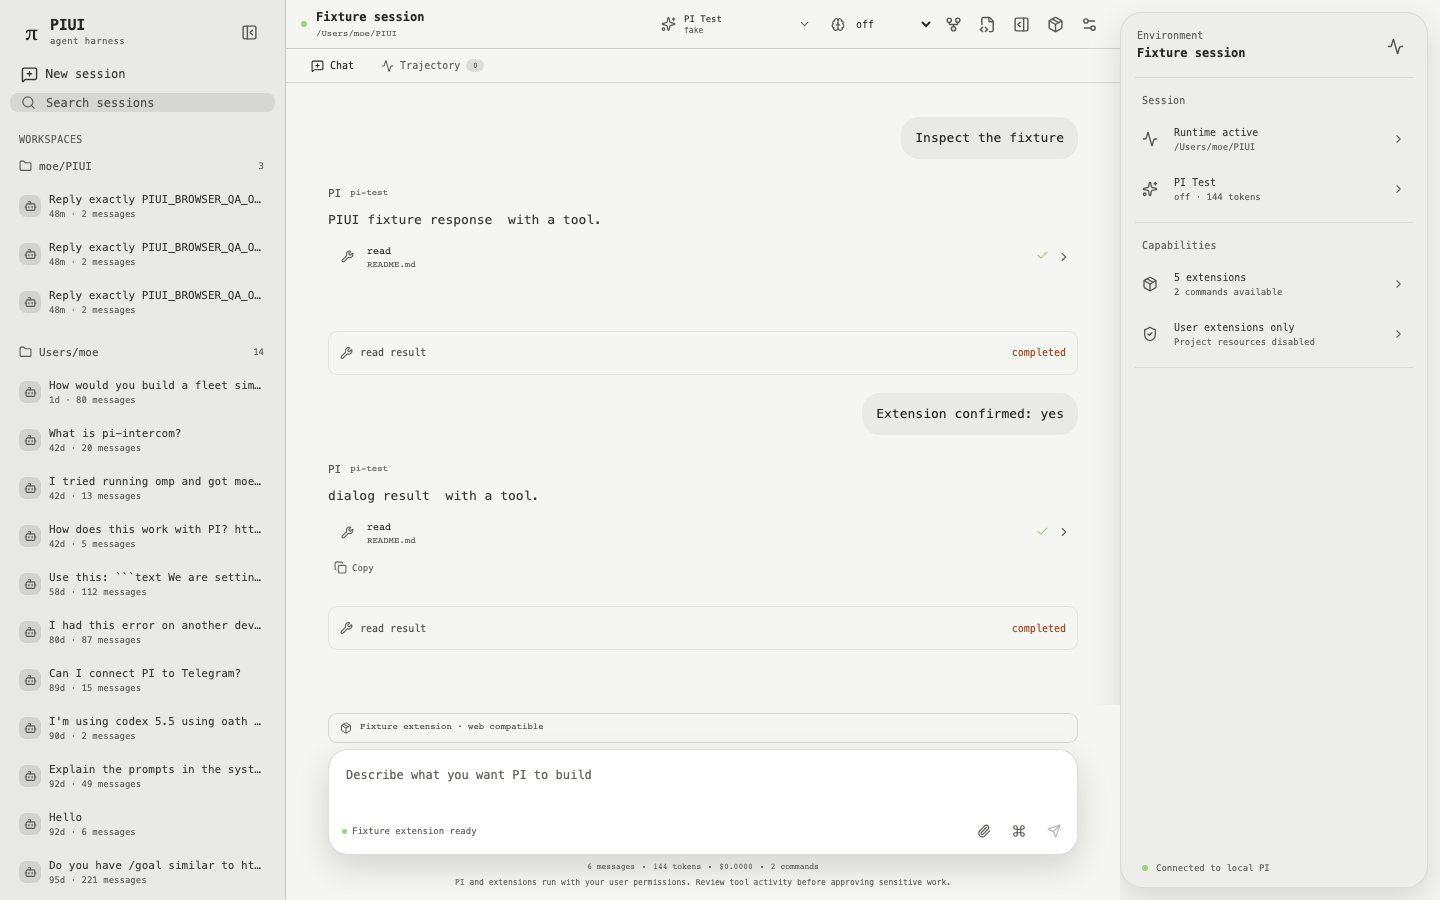
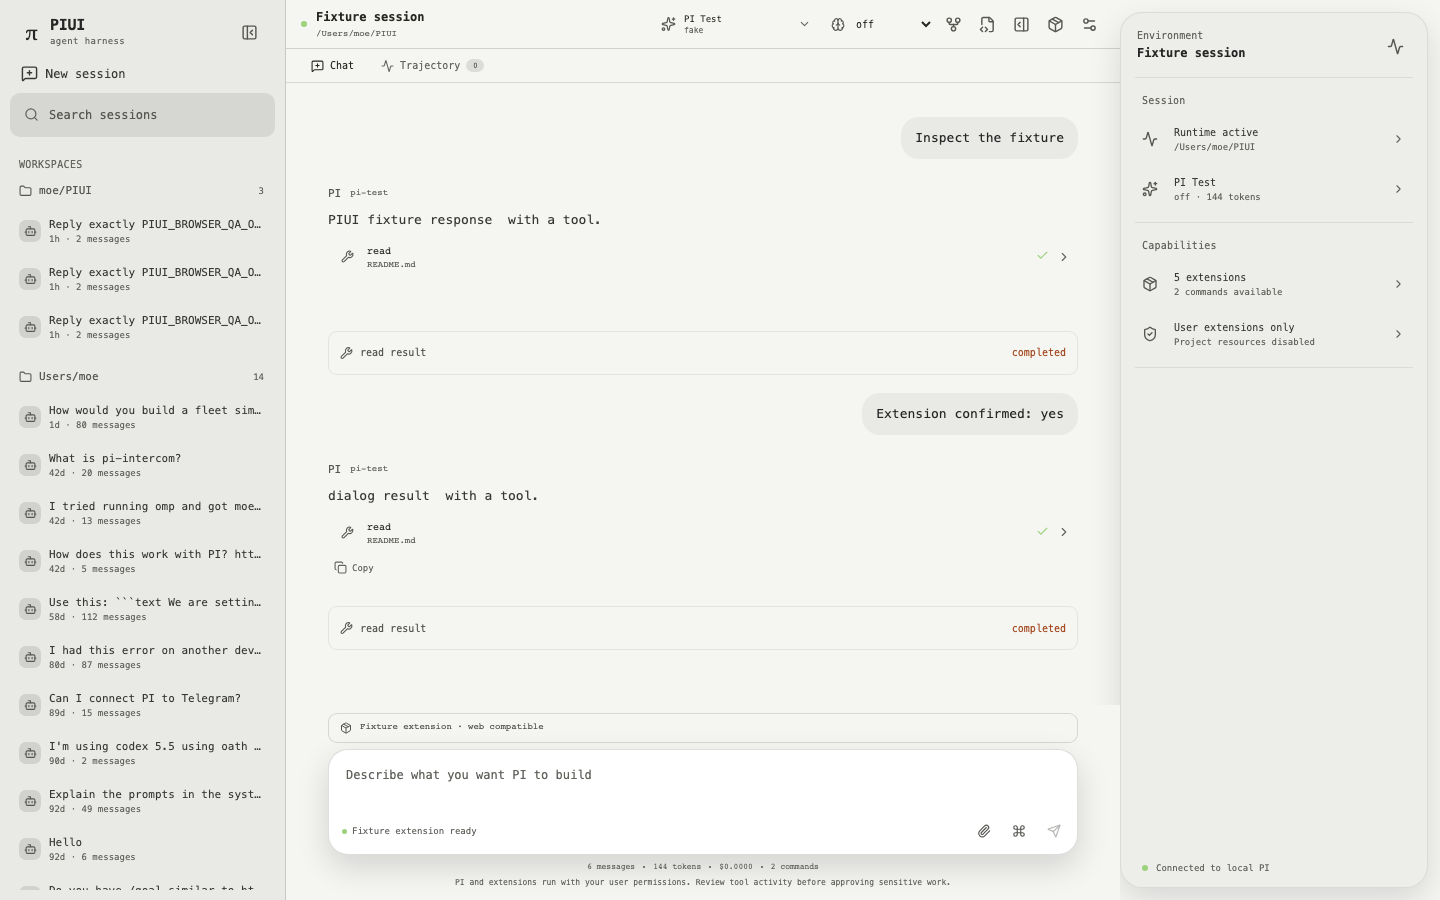
Clarify model availability and enlarge search controls

Changed region(s): [[0.0, 0.0933, 0.1875, 0.9956]]

diff --git a/src/surfaces.tsx b/src/surfaces.tsx
@@ -1,7 +1,7 @@
 import { useEffect, useMemo, useRef, useState, type ReactNode } from "react";
 import {
   Activity, AlertTriangle, Archive, BarChart3, Brain, Check, ChevronRight, CircleDollarSign,
-  Copy, Download, FileCode2, Folder, GitFork, Gauge, MessageSquare, Package, RefreshCw,
+  Copy, Download, FileCode2, Folder, GitFork, Gauge, Info, MessageSquare, Package, RefreshCw,
   Search, Settings2, ShieldAlert, Sparkles, TerminalSquare, Wrench, X,
 } from "lucide-react";
 import type { ExtensionItem, ModelInfo, RpcState, SlashCommand } from "./types";
@@ -24,6 +24,7 @@ export function ModalSurface({ children, className = "", labelledBy, close }: { 
 export function ModelPicker({ models, current, onSelect, close }: { models: ModelInfo[]; current: ModelInfo | undefined; onSelect: (provider: string, id: string) => void; close: () => void }) {
   const [search, setSearch] = useState("");
   const filtered = useMemo(() => models.filter((model) => `${model.name ?? ""} ${model.id} ${model.provider}`.toLowerCase().includes(search.toLowerCase())), [models, search]);
+  const providerCount = useMemo(() => new Set(models.map((model) => model.provider)).size, [models]);
   const groups = useMemo(() => {
     const result = new Map<string,ModelInfo[]>();
     for (const model of filtered) result.set(model.provider,[...(result.get(model.provider) ?? []),model]);
@@ -32,6 +33,7 @@ export function ModelPicker({ models, current, onSelect, close }: { models: Mode
   return <ModalSurface className="picker-dialog" labelledBy="model-picker-title" close={close}>
     <header className="dialog-header"><div><span className="eyebrow"><Sparkles/> PI MODELS</span><h2 id="model-picker-title">Choose a model</h2><p>Models available through your local PI configuration.</p></div><button className="icon-button" onClick={close} aria-label="Close model picker"><X/></button></header>
     <label className="search dialog-search"><Search/><input autoFocus value={search} onChange={(event) => setSearch(event.target.value)} placeholder="Search models or providers" aria-label="Search models"/></label>
+    <div className="model-source-note"><Info/><span><strong>{models.length} selectable models from {providerCount} provider{providerCount === 1 ? "" : "s"}.</strong> PI only returns providers that are configured and authenticated. Add another provider with <code>/login</code> in PI, then restart this runtime.</span></div>
     <div className="model-groups">{[...groups.entries()].map(([provider, items]) => <section key={provider}><div className="provider-heading"><strong>{provider}</strong><span>{items.length} models</span></div>{items.map((model) => {
       const selected = current?.provider === model.provider && current?.id === model.id;
       return <button className={`model-row ${selected ? "selected" : ""}`} key={`${model.provider}/${model.id}`} onClick={() => { onSelect(model.provider, model.id); close(); }} aria-pressed={selected}>
@@ -92,7 +94,7 @@ export function SettingsDialog({ initialTab, state, ready, runtime, models, thin
         <SettingRow title="Enter behavior while busy" description="Choose where Enter queues a message while PI is working."><div className="segmented"><button aria-pressed={busyMode === "steer"} onClick={() => onBusyMode("steer")}>Steer</button><button aria-pressed={busyMode === "followUp"} onClick={() => onBusyMode("followUp")}>Follow up</button></div></SettingRow>
         <div className="compatibility-note"><AlertTriangle/><div><strong>PI permissions</strong><span>Unlike DeepSeek Harness permission presets, PI has no built-in sandbox. PIUI shows the actual trust state rather than offering controls it cannot enforce.</span></div></div>
       </>}
-      {tab === "models" && <><h2>Models</h2><p className="settings-lead">Available from your existing PI providers and authentication.</p><div className="current-model-card"><span className="model-icon"><Sparkles/></span><div><small>Current model</small><strong>{state?.model ? `${state.model.name ?? state.model.id}` : ready ? "No model selected" : "Starting PI…"}</strong><span>{state?.model ? `${state.model.provider}/${state.model.id}` : ""}</span></div><button className="secondary" disabled={!ready} onClick={showModelPicker}>Choose model</button></div><h3>Reasoning effort</h3><div className="effort-grid">{thinkingLevels.map((level) => <button key={level} disabled={!ready} aria-pressed={state?.thinkingLevel === level} onClick={() => onThinking(level)}><Brain/>{level}</button>)}</div><div className="inventory-summary"><span><strong>{models.length}</strong> models</span><span><strong>{new Set(models.map((model)=>model.provider)).size}</strong> providers</span></div></>}
+      {tab === "models" && <><h2>Models</h2><p className="settings-lead">PIUI shows the selectable models returned by your local PI runtime. Providers without configured authentication stay hidden.</p><div className="current-model-card"><span className="model-icon"><Sparkles/></span><div><small>Current model</small><strong>{state?.model ? `${state.model.name ?? state.model.id}` : ready ? "No model selected" : "Starting PI…"}</strong><span>{state?.model ? `${state.model.provider}/${state.model.id}` : ""}</span></div><button className="secondary" disabled={!ready} onClick={showModelPicker}>Choose model</button></div><h3>Reasoning effort</h3><div className="effort-grid">{thinkingLevels.map((level) => <button key={level} disabled={!ready} aria-pressed={state?.thinkingLevel === level} onClick={() => onThinking(level)}><Brain/>{level}</button>)}</div><div className="inventory-summary"><span><strong>{models.length}</strong> models</span><span><strong>{new Set(models.map((model)=>model.provider)).size}</strong> authenticated providers</span></div></>}
       {tab === "extensions" && <><h2>Extensions</h2><p className="settings-lead">PI extensions are the equivalent of DeepSeek Harness plugins.</p><div className="compatibility-note"><AlertTriangle/><div><strong>Web compatibility</strong><span>Tools, events, commands, standard dialogs, status, and text widgets work. Terminal-only custom components and renderers do not cross PI RPC.</span></div></div><label className="search dialog-search"><Search/><input value={extensionSearch} onChange={(event) => setExtensionSearch(event.target.value)} placeholder="Search configured extension sources" aria-label="Search extensions"/></label><div className="inventory-summary"><span><strong>{extensions.length}</strong> configured sources</span><span><strong>{commands.filter((item)=>item.source === "extension").length}</strong> commands</span></div><div className="settings-extension-list">{filteredExtensions.map((extension,index) => <div className="extension-row" key={`${extension.path}-${index}`}><span className="extension-logo"><Package/></span><div><strong>{extension.name}</strong><small>{extension.source}</small><span>{extension.scope} · {extension.resources.length} resource{extension.resources.length === 1 ? "" : "s"}</span></div><em>configured</em></div>)}</div></>}
       {tab === "session" && <><h2>Session</h2><p className="settings-lead">History, context, retries, and export controls for this PI session.</p><div className="session-action-grid"><button disabled={!ready} onClick={onRename}><FileCode2/>Rename session</button><button disabled={!ready} onClick={onClone}><GitFork/>Clone branch</button><button disabled={!ready || state?.isStreaming} onClick={() => onCommand({type:"compact"})}><Archive/>Compact context</button><button disabled={!ready} onClick={() => onCommand({type:"export_html"})}><Download/>Export HTML</button></div><SettingRow title="Auto compaction" description="Compact automatically when context is nearly full."><button className="toggle" role="switch" aria-checked={Boolean(state?.autoCompactionEnabled)} disabled={!ready} onClick={() => onCommand({type:"set_auto_compaction",enabled:!state?.autoCompactionEnabled})}><i/></button></SettingRow><SettingRow title="Auto retry" description="Retry transient provider errors automatically."><button className="toggle" role="switch" aria-checked={Boolean(state?.autoRetryEnabled)} disabled={!ready} onClick={() => onCommand({type:"set_auto_retry",enabled:!state?.autoRetryEnabled})}><i/></button></SettingRow><div className="inventory-summary"><span><strong>{String(stats.totalMessages ?? state?.messageCount ?? 0)}</strong> messages</span><span><strong>{formatCompact(Number((stats.tokens as Record<string,number>|undefined)?.total ?? 0))}</strong> tokens</span><span><strong>${Number(stats.cost ?? 0).toFixed(4)}</strong> cost</span></div></>}
     </section>

diff --git a/src/styles.css b/src/styles.css
@@ -204,8 +204,13 @@ button:focus-visible, input:focus-visible, textarea:focus-visible, select:focus-
 
 .dialog-header { display: flex; justify-content: space-between; gap: 20px; }.dialog-header h2 { margin: 9px 0 5px; font-size: 24px; }.dialog-header p { margin: 0; font-size: 10px; }.dialog-search { margin: 19px 0 11px; }
 .picker-dialog { width: min(720px,calc(100vw - 32px)); max-height: min(760px,calc(100vh - 32px)); padding: 25px; overflow: hidden; }
-.model-groups { max-height: min(600px,calc(100vh - 180px)); overflow-y: auto; padding-right: 4px; }.model-groups section { margin-top: 13px; }.provider-heading { display: flex; justify-content: space-between; padding: 7px 4px; color: var(--muted); text-transform: uppercase; letter-spacing: .08em; font-size: 8px; }.provider-heading span { color: var(--dim); }
+.model-groups { max-height: min(535px,calc(100vh - 245px)); overflow-y: auto; padding-right: 4px; }.model-groups section { margin-top: 13px; }.provider-heading { display: flex; justify-content: space-between; padding: 7px 4px; color: var(--muted); text-transform: uppercase; letter-spacing: .08em; font-size: 8px; }.provider-heading span { color: var(--dim); }
 .model-row { width: 100%; min-height: 57px; display: grid; grid-template-columns: 34px minmax(0,1fr) auto 16px; align-items: center; gap: 10px; padding: 8px 10px; border: 1px solid transparent; border-radius: 10px; text-align: left; background: transparent; cursor: pointer; }.model-row:hover { background: var(--surface-2); }.model-row.selected { border-color: rgba(183,234,89,.24); background: var(--green-soft); }.model-row > span:nth-child(2) { min-width: 0; display: flex; flex-direction: column; gap: 4px; }.model-row strong { overflow: hidden; text-overflow: ellipsis; white-space: nowrap; font-size: 11px; }.model-row small { color: var(--dim); font: 8px DM Mono,monospace; }.model-row > svg { width: 13px; color: var(--green); }.model-icon { width: 32px; height: 32px; display: grid; place-items: center; border-radius: 8px; color: var(--green); background: var(--green-soft); }.model-icon svg { width: 14px; }.model-meta { display: flex; align-items: center; gap: 7px; }.model-meta em { padding: 3px 5px; border-radius: 5px; color: #d9b889; background: rgba(240,169,93,.08); font-size: 7px; font-style: normal; }
+
+.model-source-note { display: flex; align-items: flex-start; gap: 8px; margin: 0 0 9px; padding: 9px 10px; border-radius: 9px; color: var(--dim); background: rgba(0,0,0,.08); font-size: 9px; line-height: 1.5; }
+.model-source-note > svg { width: 14px; flex: none; color: var(--muted); }
+.model-source-note strong { color: var(--muted); font-weight: 550; }
+.model-source-note code { color: var(--text-soft); font: inherit; }
 
 .settings-dialog { width: min(900px,calc(100vw - 32px)); height: min(680px,calc(100vh - 32px)); display: grid; grid-template-columns: 180px minmax(0,1fr); overflow: hidden; }
 .settings-nav { display: flex; flex-direction: column; padding: 24px 12px; border-right: 1px solid var(--line); background: #181a17; }.settings-nav h2 { margin: 0 10px 23px; font-size: 17px; }.settings-nav button { height: 42px; display: flex; align-items: center; gap: 9px; padding: 0 11px; border: 1px solid transparent; border-radius: 9px; text-align: left; color: var(--muted); background: transparent; cursor: pointer; text-transform: capitalize; font-size: 11px; }.settings-nav button svg { width: 15px; }.settings-nav button.active { border-color: #4c5346; color: white; background: var(--surface-3); }
@@ -296,7 +301,7 @@ button:focus-visible, input:focus-visible, textarea:focus-visible, select:focus-
 .icon-button:hover { border-color: transparent; color: var(--text); background: rgba(255,255,255,.06); }
 .new-session { height: 36px; justify-content: flex-start; margin: 8px 0 9px; padding: 0 10px; border-color: transparent; border-radius: 8px; color: var(--text-soft); background: transparent; font-size: 12px; font-weight: 450; }
 .new-session:hover { border-color: transparent; color: var(--text); background: rgba(255,255,255,.055); }
-.search { height: 34px; border-color: transparent; border-radius: 8px; background: rgba(0,0,0,.08); }
+.search { height: 44px; min-height: 44px; padding-inline: 13px; border-color: transparent; border-radius: 10px; background: rgba(0,0,0,.08); }
 .search:focus-within { background: rgba(0,0,0,.13); box-shadow: inset 0 0 0 1px var(--line); }
 .search input, .search input::placeholder { color: var(--muted); }
 .section-label, .eyebrow { color: var(--dim); font-size: 10px; font-weight: 500; letter-spacing: .035em; }

diff --git a/e2e/piui.spec.ts b/e2e/piui.spec.ts
@@ -6,6 +6,11 @@ async function waitForReady(page: import("@playwright/test").Page) {
   await expect(page.getByRole("button", { name: /Choose model, current/ })).toBeEnabled();
 }
 
+async function expectComfortableSearch(locator: import("@playwright/test").Locator) {
+  const height = await locator.evaluate((element) => element.closest(".search")?.getBoundingClientRect().height ?? 0);
+  expect(height).toBeGreaterThanOrEqual(42);
+}
+
 test("runs the complete PIUI workflow and survives reload", async ({ page }, testInfo) => {
   page.on("pageerror", (error) => console.error("Browser page error:", error));
   await page.goto("/");
@@ -33,6 +38,10 @@ test("runs the complete PIUI workflow and survives reload", async ({ page }, tes
 
   await page.getByRole("button", { name: /Choose model, current PI Test/ }).click();
   await expect(page.getByRole("heading", { name: "Choose a model" })).toBeVisible();
+  await expectComfortableSearch(page.getByLabel("Search models"));
+  await expect(page.getByText("3 selectable models from 2 providers.")).toBeVisible();
+  await expect(page.locator(".provider-heading").getByText("anthropic", { exact: true })).toBeVisible();
+  await page.screenshot({ path: `docs/qa/piui/model-picker-${testInfo.project.name}.png`, fullPage: false });
   await page.getByLabel("Search models").fill("alternate");
   await page.getByRole("button", { name: /PI Alternate/ }).click();
   await expect(page.getByRole("button", { name: /Choose model, current PI Alternate/ })).toBeVisible();
@@ -63,6 +72,7 @@ test("runs the complete PIUI workflow and survives reload", async ({ page }, tes
   await page.getByRole("button", { name: /Trajectory/ }).click();
   await expect(page.getByRole("heading", { name: "Details" })).toBeVisible();
   await expect(page.getByRole("heading", { name: "Session ledger" })).toBeVisible();
+  await expectComfortableSearch(page.getByLabel("Search session events"));
   await page.getByRole("button", { name: "Close session details" }).click();
 
   await page.getByTitle("Settings").click();
@@ -70,6 +80,7 @@ test("runs the complete PIUI workflow and survives reload", async ({ page }, tes
   await expect(page.getByRole("heading", { name: "Extensions" })).toBeVisible();
   await expect(page.getByText("configured sources")).toBeVisible();
   await expect(page.getByText("Terminal-only custom components", { exact: false })).toBeVisible();
+  await expectComfortableSearch(page.getByLabel("Search extensions"));
   await page.screenshot({ path: `docs/qa/piui/extensions-${testInfo.project.name}.png`, fullPage: false });
   const settings = page.getByRole("dialog", { name: "Settings" });
   await settings.getByRole("button", { name: "General" }).click();
@@ -103,6 +114,7 @@ test("runs the complete PIUI workflow and survives reload", async ({ page }, tes
 test("shell fits the viewport and has no serious accessibility violations", async ({ page }) => {
   await page.goto("/");
   await waitForReady(page);
+  for (const search of await page.locator(".search:visible").all()) await expectComfortableSearch(search);
   const fit = await page.evaluate(() => ({
     width: document.documentElement.scrollWidth - document.documentElement.clientWidth,
     height: document.documentElement.scrollHeight - document.documentElement.clientHeight,

diff --git a/design-qa.md b/design-qa.md
@@ -10,6 +10,9 @@
 - Folder-picker reference: `/var/folders/7n/jwn8cbhx0cj313yjrqnsj7sw0000gn/T/codex-clipboard-ead85fac-26de-4107-9755-e7131b8ae089.png`
 - Folder-picker implementation: `docs/qa/piui/folder-picker-desktop.png`
 - Folder-picker normalized comparison: `/tmp/piui-folder-picker-comparison.png`
+- Model catalog implementation: `docs/qa/piui/model-picker-desktop.png`
+- Model catalog mobile implementation: `docs/qa/piui/model-picker-mobile.png`
+- Search-height comparison: `/tmp/piui-search-height-comparison.png`
 - Full-view comparison: `/tmp/piui-codex-comparison.png`
 - Focused composer/content comparison: `/tmp/piui-codex-focus-comparison.png`
 - Source pixels: 3024 × 1964 Retina capture, cropped to the Codex app interior and normalized to 1440 × 900.
@@ -36,6 +39,8 @@ No actionable P0, P1, or P2 visual differences remain.
 4. Independent responsive review then found a P1 clipping regression between 651px and 722px and a P2 misleading context-rail header icon. The sidebar now becomes an overlay/collapsed rail at 900px, nonessential clone/rename controls hide at that breakpoint, the rail action uses an activity/details icon, and the E2E matrix includes a 700px project with per-control viewport-bound assertions.
 5. Post-fix evidence: `npm run test:e2e` passed all six desktop, 700px narrow, and mobile workflow/Axe checks. `docs/qa/piui/codex-dark-narrow.png` confirms every visible topbar control and the composer fit at the previously failing width.
 6. The workspace-dialog reference and implementation were cropped to their modal bounds, normalized to 520 × 335, and reviewed side by side. The implementation preserves the reference hierarchy, copy, trust actions, spacing rhythm, and icon treatment while adding a real `Choose folder` control beside the editable path. At 390px the path, chooser, and trust actions stack into a single readable column with no clipping.
+7. Search containers were increased from 34px to 44px across sessions, models, extensions, and the session ledger. The full-view comparison confirms the new height matches the source's comfortable control density without weakening the compact shell hierarchy. Browser assertions require every visible search container to remain at least 42px tall.
+8. Model-picker evidence now states the PI contract directly: the UI renders every selectable model returned by RPC and does not filter by vendor. A deterministic three-model/two-provider catalog confirms both provider groups render on desktop and mobile; unauthenticated providers are accurately described as unavailable rather than shown as selectable controls that would fail.
 
 ## Focused comparison
 
@@ -46,6 +51,7 @@ The composer and lower conversation needed a focused comparison because they are
 - Browser workflow tested at 1440 × 900, 700 × 900, and 390 × 844.
 - Typed in the composer, attached and removed an image, selected two models, verified model-specific thinking levels, sent a streamed prompt, expanded tool output, reloaded and restored state, opened trajectory, used all settings tabs, invoked a slash command, and completed an extension confirmation dialog.
 - Opened the workspace dialog from the responsive sidebar, chose a deterministic test directory through the same-origin folder-picker API, verified the absolute path was placed in the directory field, and closed the dialog without leaving the mobile sidebar over the composer. Path normalization and cancellation are covered by unit tests; native selection is validated by the browser workflow through the platform-independent test override.
+- Verified multi-provider model grouping, the configured-provider explanation, and 42px-minimum visible search controls in the sessions sidebar, model picker, Extensions settings, and session ledger.
 - Viewport overflow assertions passed at both sizes.
 - Browser page errors are collected by the E2E workflow; none were reported.
 - Axe serious/critical accessibility checks passed at both sizes.
